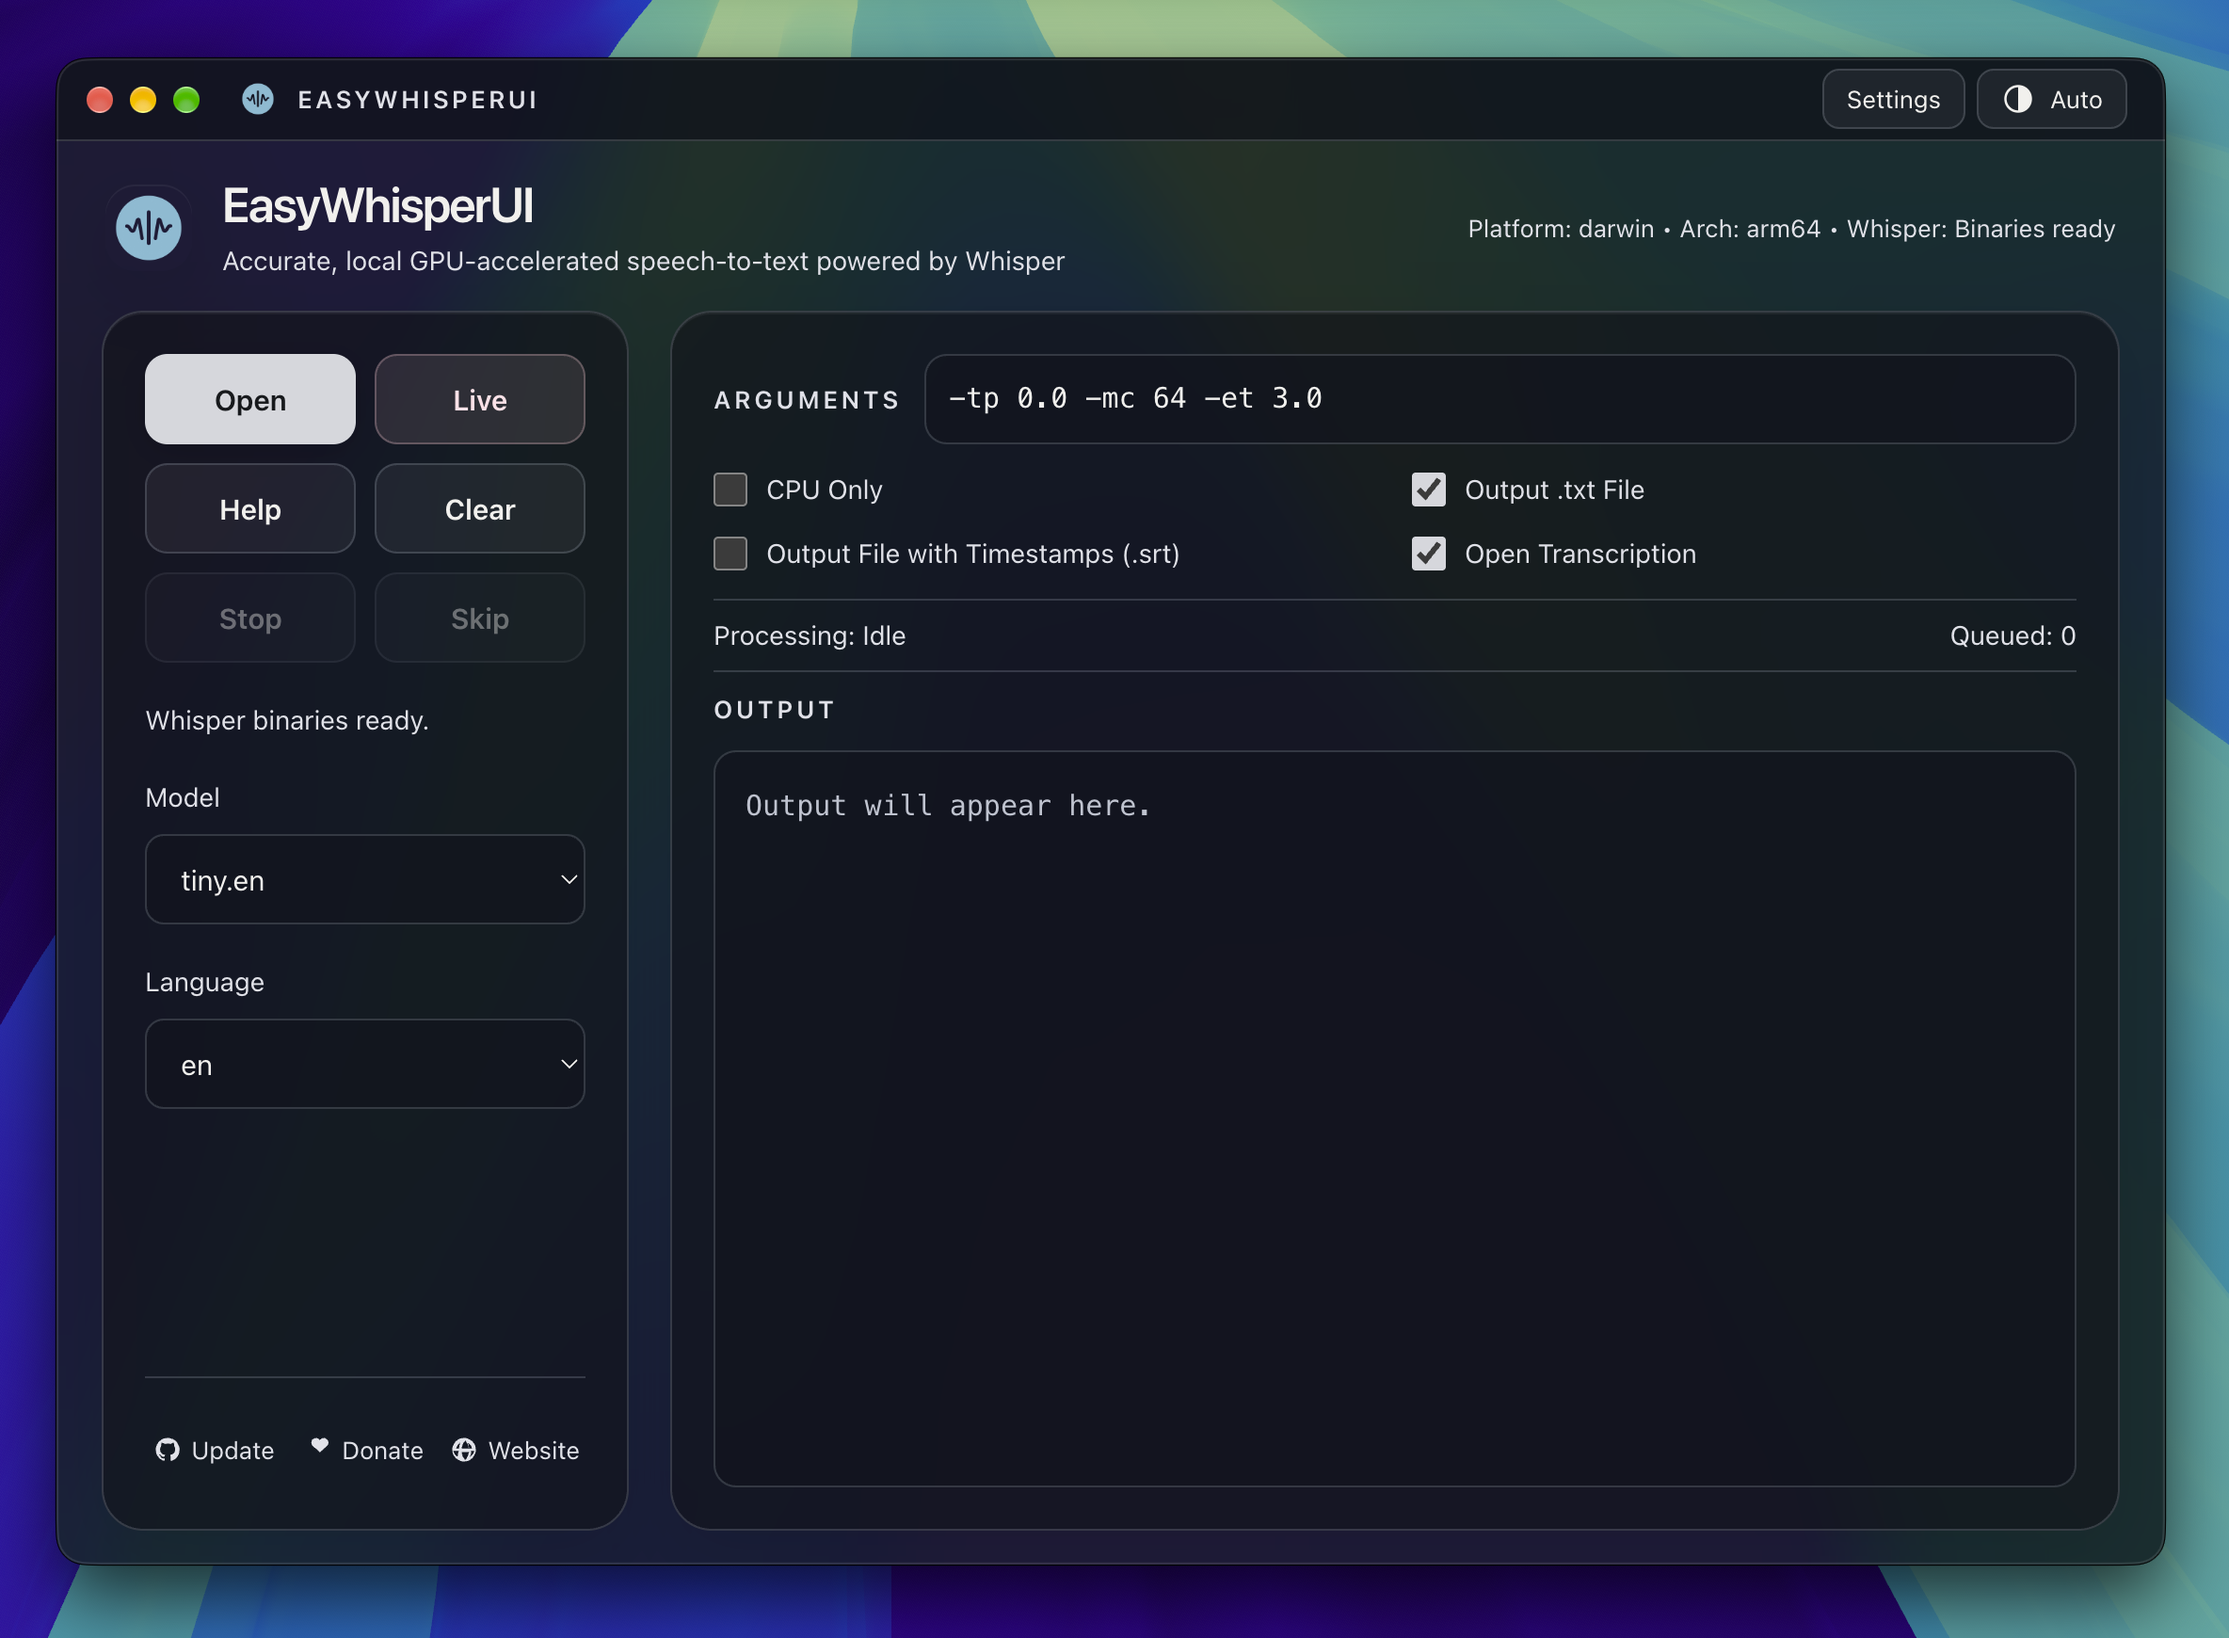
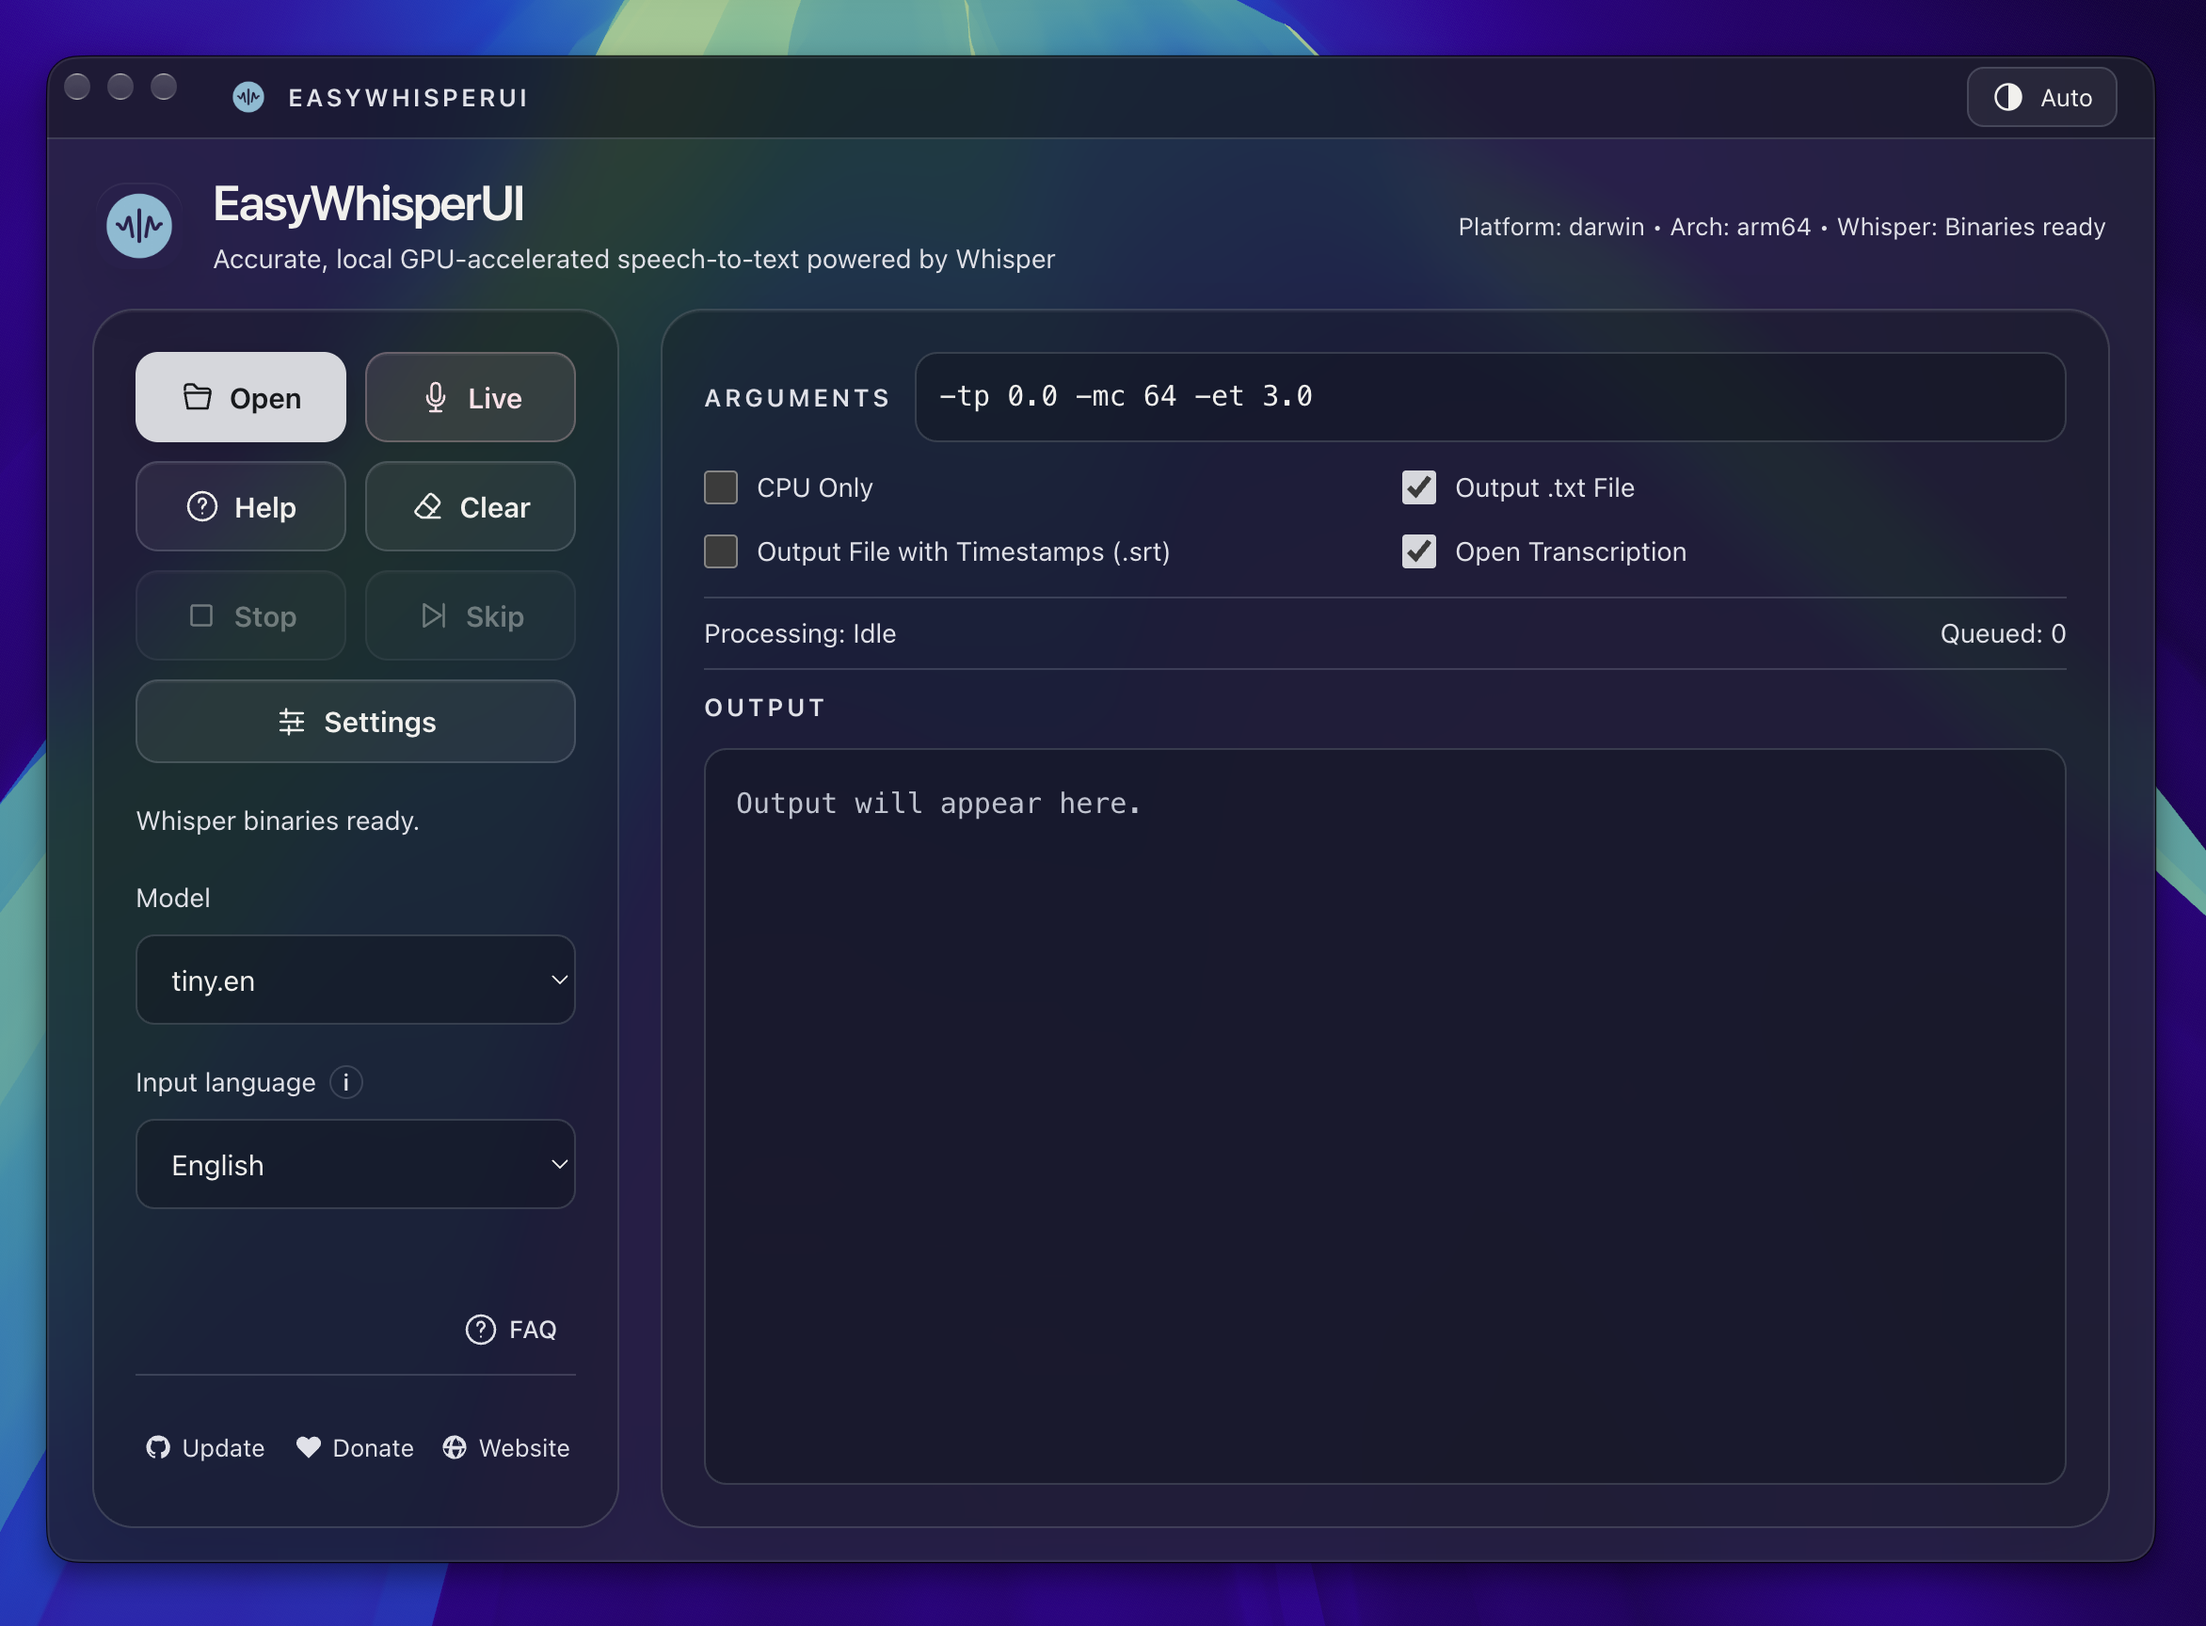
Update README

diff --git a/README.md b/README.md
@@ -37,10 +37,11 @@ Windows uses Vulkan on supported GPUs; macOS uses Metal. CPU-only processing is 
 - **Batch processing** — open multiple files, drag and drop, or use Open With; FFmpeg handles format conversion.
 - **Live transcription** — transcribe microphone audio (beta).
 - **Languages and exports** — multilingual transcription, translation into English, and TXT/SRT output.
+- **Clear input-language selection** — full language names, an info button, and guidance when non-English audio needs a multilingual model.
 - **GPU acceleration** — Vulkan on Windows, Metal on Apple Silicon, or CPU-only processing.
 - **Model management** — download models in Settings or automatically when needed, track downloaded bytes and transfer speed, and delete individual models.
 - **Custom models** — select a local whisper.cpp-compatible model file.
-- **Saved themes and background blur** — Light, Dark, and Auto, with translucent panels on macOS (vibrancy) and Windows 11 22H2+ (Acrylic), plus native macOS window controls.
+- **Saved themes and background blur** — Light, Dark, and Auto, with more transparent macOS panels and vibrancy, Windows 11 22H2+ Acrylic, and native macOS window controls.
 - **Queue controls** — Skip cancels the current file and continues; Stop cancels the whole queue, including its model downloads and audio preparation.
 - **Audio caching** — reuse converted audio across retries and model changes, with manual cleanup and optional cleanup on exit (enabled by default).
 - **Console and Help** — a large output console, full Whisper CLI help, extra CLI arguments, and Settings shortcuts to the app workspace and saved setup logs.
@@ -50,7 +51,7 @@ Windows uses Vulkan on supported GPUs; macOS uses Metal. CPU-only processing is 
 
 1. Run the Windows installer, or open the Mac DMG and drag **EasyWhisperUI** into **Applications**.
 2. Launch the app and let initial setup finish. macOS includes Whisper and FFmpeg.
-3. Choose your model, language, and output formats. Missing models download automatically. For a local model, choose **custom → Select Model File**.
+3. Choose your model, input language, and output formats. Use a multilingual model for non-English audio; `.en` models are English-only. Missing models download automatically. For a local model, choose **custom → Select Model File**.
 4. Click **Open** or drop files into the window. Transcription starts automatically; exports are saved beside the original files.
 
 To translate into English, choose a multilingual model such as `medium`, select the source language, and add `--translate` in **Arguments**.
